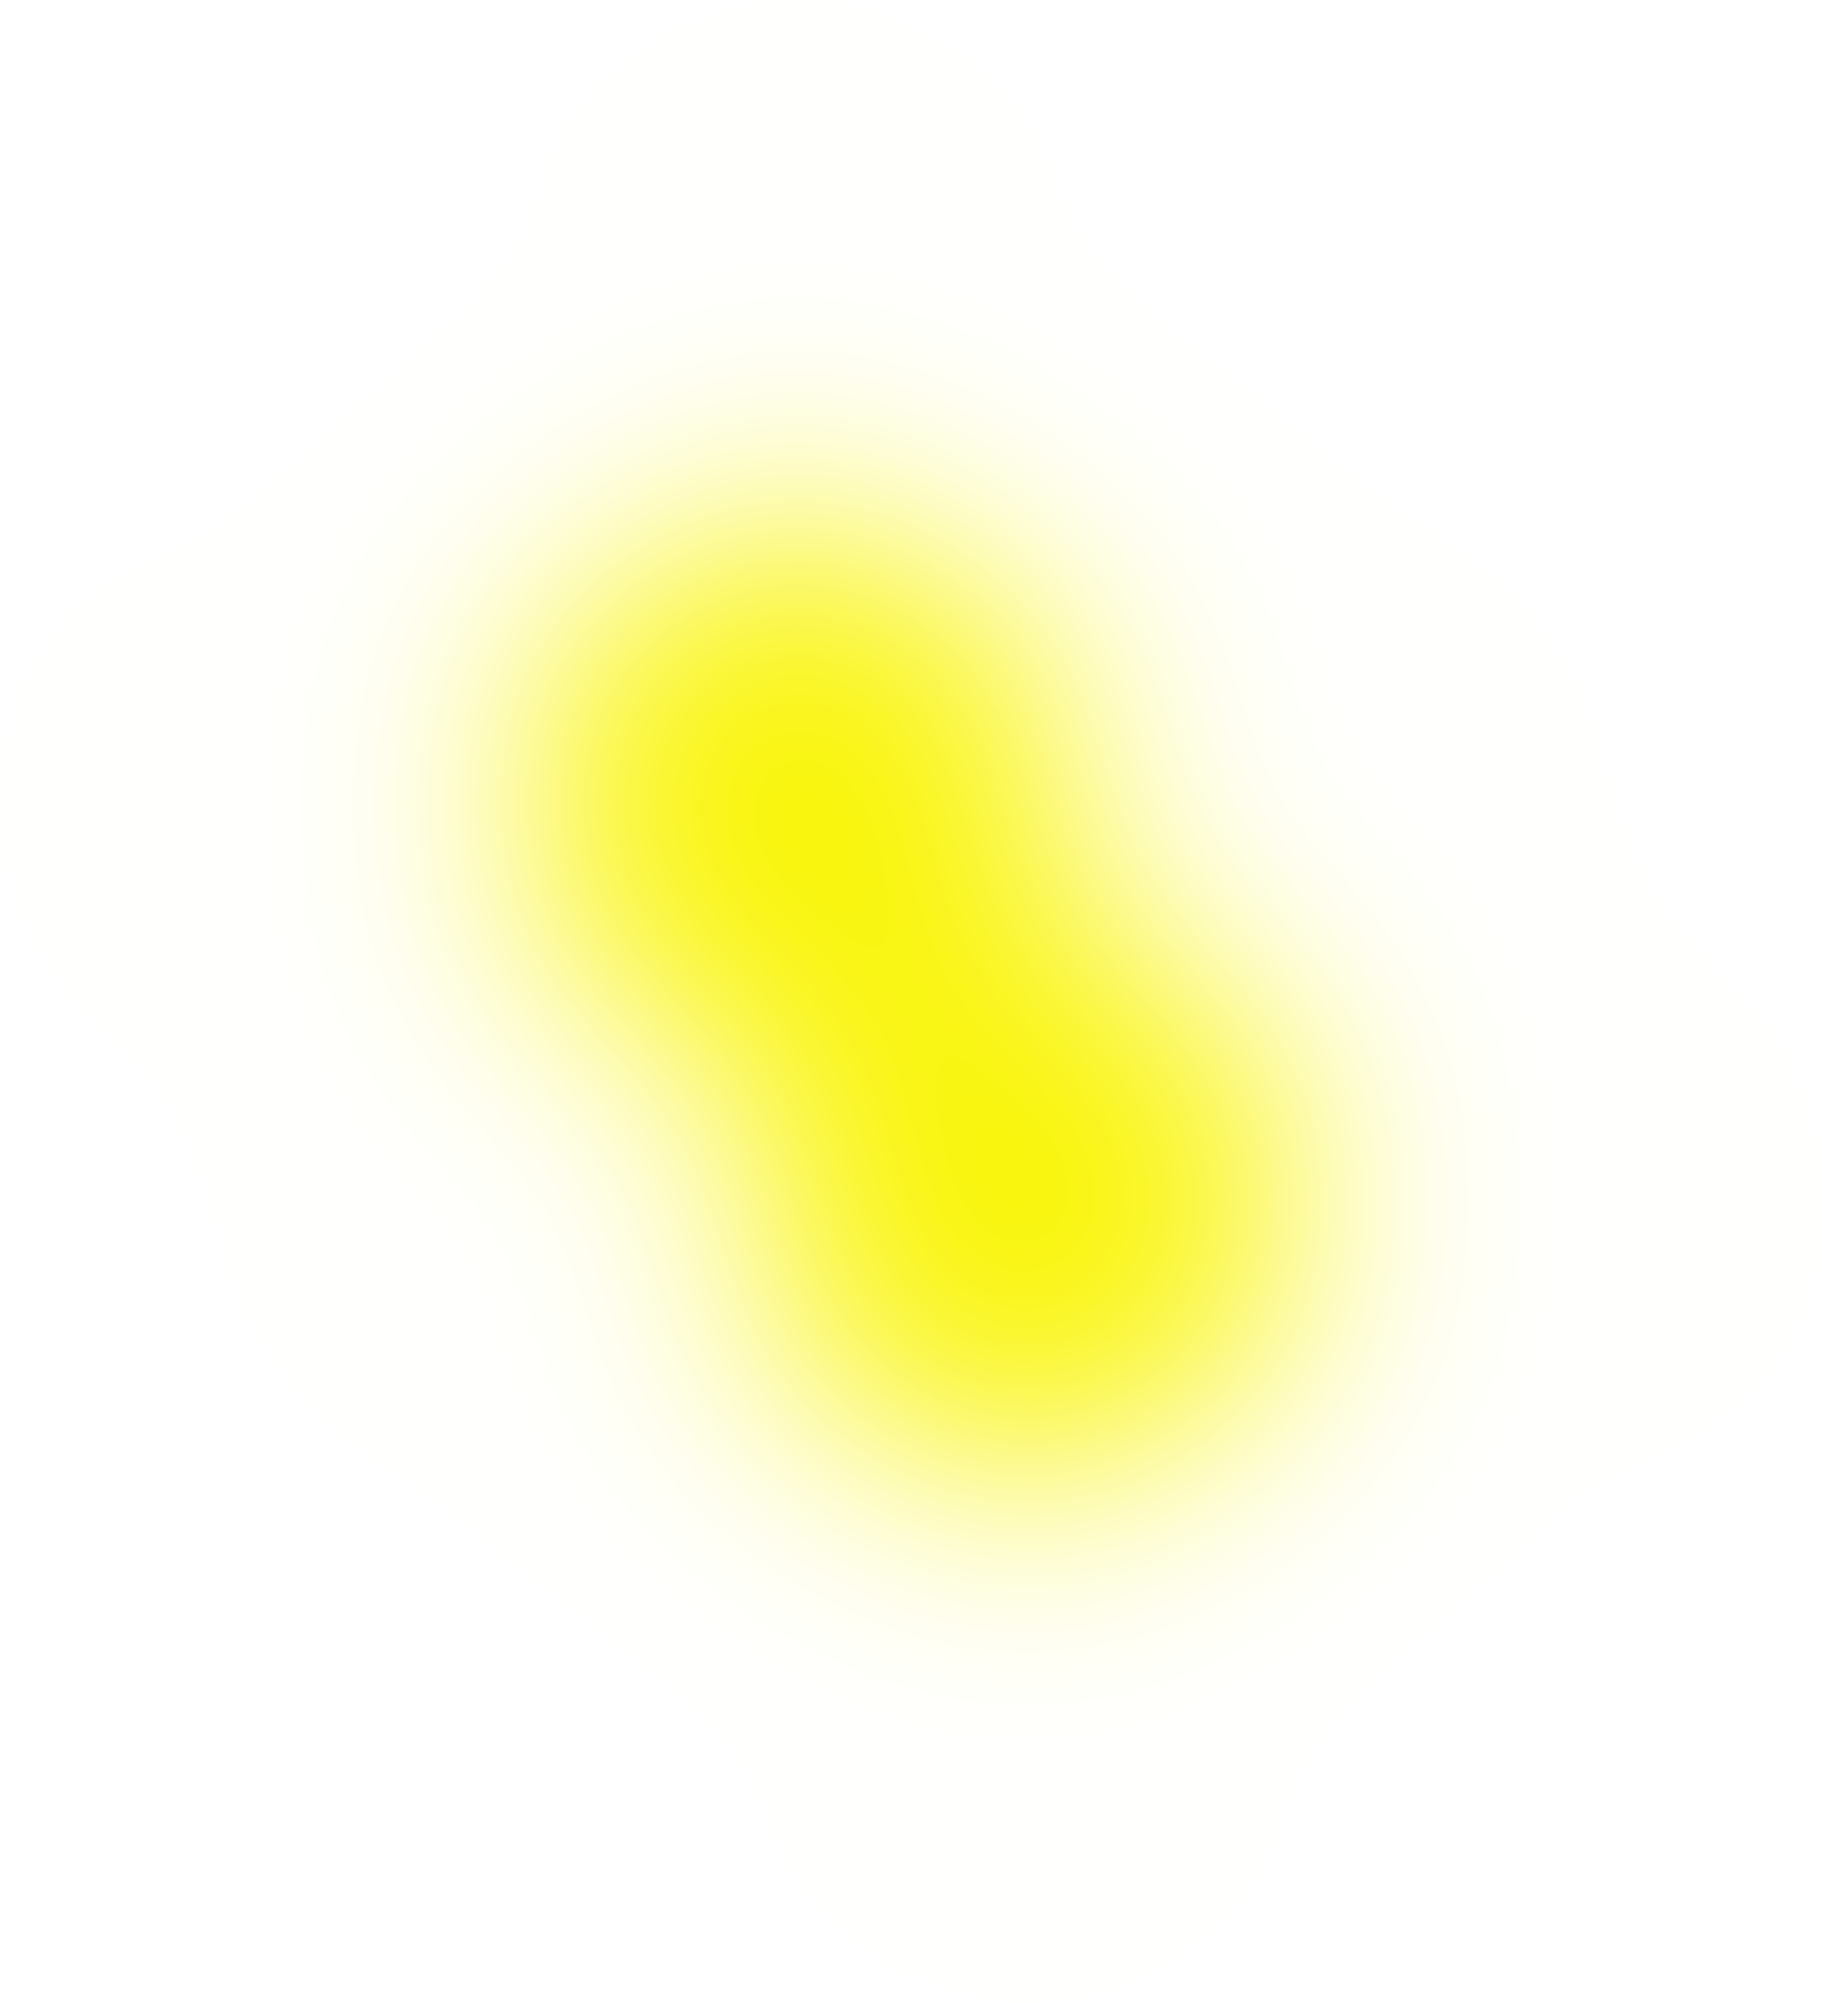
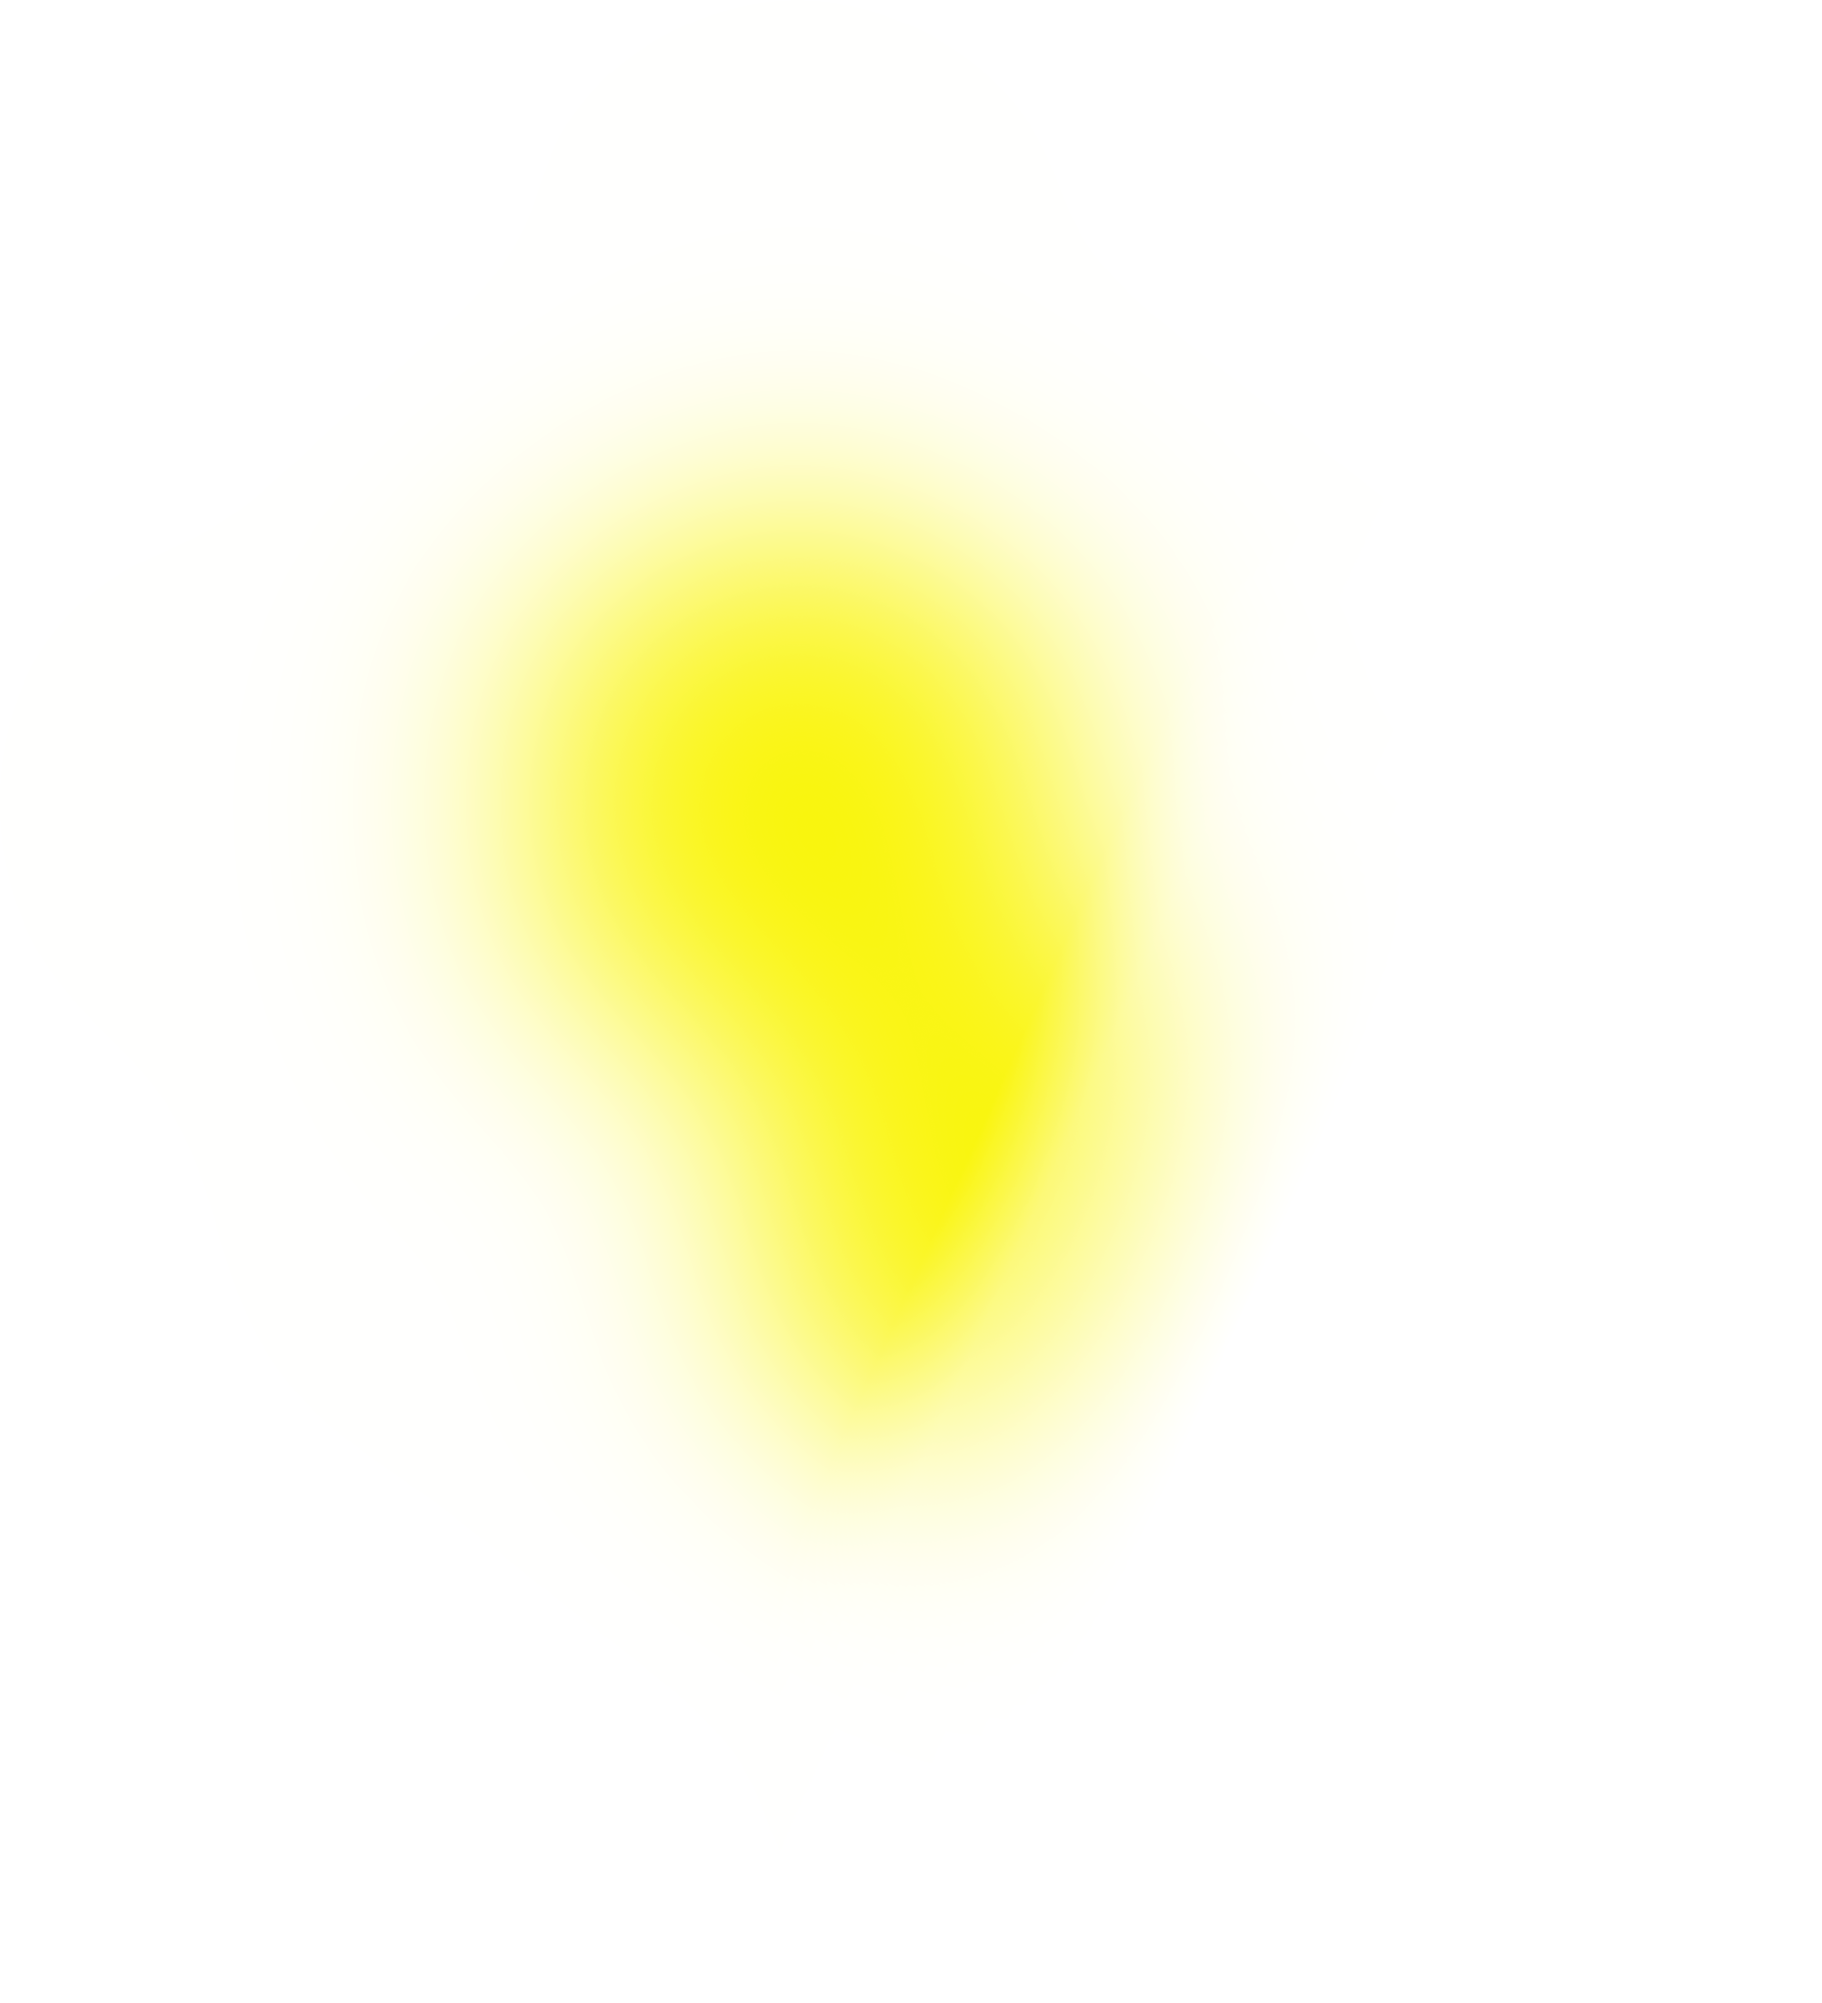
Less glow, more shadow

Changed region(s): [[0.4677, 0.4315, 0.7796, 0.8014]]

diff --git a/sections/map_elements.tex b/sections/map_elements.tex
@@ -242,7 +242,8 @@ During the Combat, she casts the Lightning Bolt, and Empowers \svg{empower} it w
       \node (subter) at ($(surface) + (0.8333\tilesize, -0.2887\tilesize)$)  %  ΔX=5/6, ΔY=-1/(2*sqrt(3))
         {\includegraphics[width=\tilesize]{\images/map-tile-sub.png}};
       \node [below=0pt of subter.south] {\imagecaption{Subterranean Map Tile}};
-      \node [opacity=0.75] at ($(surface)!0.5!(subter)$) {\includegraphics[width=1.5\tilesize]{\images/subterranean_gate_highlight.png}};
+      \node [opacity=0.85] at ($(surface)!0.5!(subter)$) {\includegraphics[width=1.35\tilesize]{\images/subterranean_gate_drop_shadow.png}};
+      \node [opacity=0.85] at ($(surface)!0.5!(subter)$) {\includegraphics[width=1.2\tilesize]{\images/subterranean_gate_highlight.png}};
       \node at ($(surface)!0.5!(subter)$) (gate) {\includegraphics[width=0.5\tilesize]{\map_locations/subterranean_gate_token.png}};
       \node at ($(gate.north)+(45pt, 5pt)$) {\imagecaption{Subterranean Gate}};
     \end{tikzpicture}
